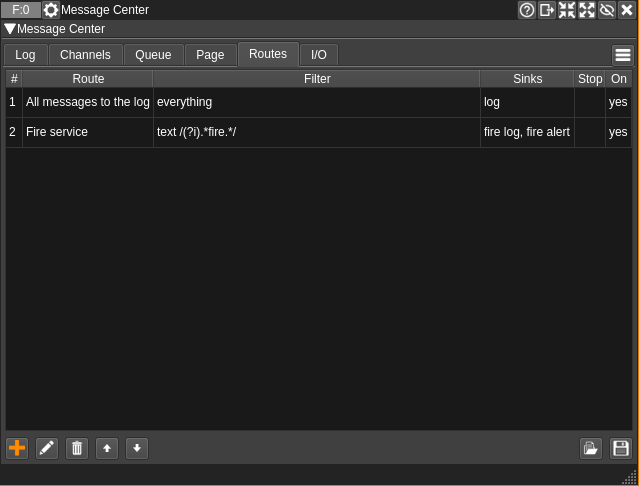
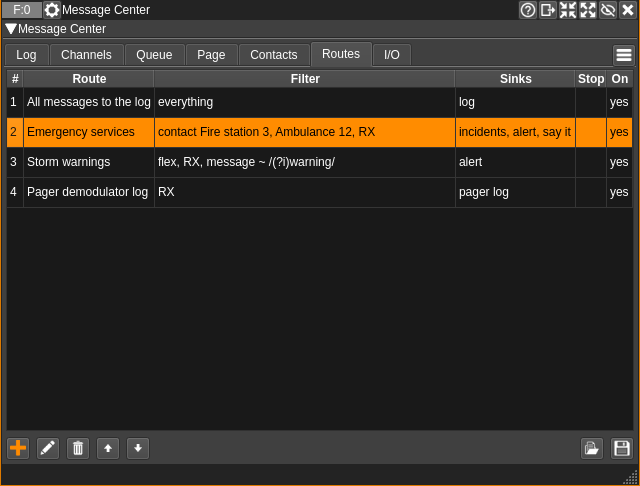
Readme screenshots: over the air on a USRP B210 loopback, with invented traffic
The demodulator and Message Center images showed traffic received off air; they are
replaced by pages of every protocol, speed and type sent by the Radio Paging modulator and
received over a cable. The Page tab with its contact, the contacts, the routes and the
sinks with the Pager CSV format are taken again.

diff --git a/plugins/feature/messagecenter/readme.md b/plugins/feature/messagecenter/readme.md
@@ -15,9 +15,9 @@ The channels publish their messages as message records on the "messages" pipe, a
 
 <h2>Interface</h2>
 
-![Message Center plugin GUI](../../../doc/img/MessageCenter_plugin.png)
+![Message Center plugin GUI: the messages received over the air from a Radio Paging modulator, POCSAG at 512, 1200 and 2400 baud (one inverted), FLEX 1600/2, 3200/4 and 6400/4 and GSC, with their contacts](../../../doc/img/MessageCenter_plugin.png)
 
-The window has a tab for each section: Log, Channels, Queue, Page, Routes and I/O. The button at the right of the tabs opens the options.
+The window has a tab for each section: Log, Channels, Queue, Page, Contacts, Routes and I/O. The button at the right of the tabs opens the options.
 
 <h3>Log</h3>
 
@@ -52,7 +52,7 @@ The pages to transmit, with the transmitter (its name), protocol, address, text,
 
 <h3>Page</h3>
 
-![Message Center page composer](../../../doc/img/MessageCenter_plugin_page.png)
+![Message Center page composer: a page to a contact, its destination filled in](../../../doc/img/MessageCenter_plugin_page.png)
 
 The composer of a page, the same as in the Radio Paging modulator: transmitter (its name), protocol, address, type, text and the fields of the protocol. Table opens the codepage table of the text. Post the page queues the page for the transmitter.
 
@@ -83,9 +83,11 @@ A page can go to a contact instead of a transmitter and an address (`contact` in
 
 Every message is checked against all the routes in their number order (#), not only the first. Each route whose filter selects the message sends it to the sinks of the route: the log, the transmit queue or the sinks of I/O. A route with Stop ends the check for the messages it selects, so the routes after it do not see them. The log is a sink as the others: a message no route sends to it is not logged. A new Message Center has one route, 1 "All messages to the log", without a filter. A sink takes only what a route sends to it.
 
-![Message Center routes: all the messages to the log, the messages of the fire service to a CSV file and highlighted](../../../doc/img/MessageCenter_plugin_routes.png)
+![Message Center routes: all the messages to the log; those of two contacts to a file, highlighted and said; FLEX warnings highlighted; every message received to a log of the Pager demodulator format](../../../doc/img/MessageCenter_plugin_routes.png)
 
-![A route](../../../doc/img/MessageCenter_plugin_route.png)
+![A route: the messages received of two contacts](../../../doc/img/MessageCenter_plugin_route.png)
+
+A filter on several contacts (set through the WebAPI) is one item of the contact list. Editing a route keeps what its dialog does not show of its filter.
 
 The tool tip of the table of the routes recalls how they work.
 
@@ -98,7 +100,7 @@ The filter of a route has the fields of the filter of the log, and the source of
 
 <h3>I/O</h3>
 
-![Message Center sinks and sources: the built in ones, a CSV file and a highlight](../../../doc/img/MessageCenter_plugin_io.png)
+![Message Center sinks and sources: the built in ones, a Pager CSV log, a JSON lines file, a highlight and speech](../../../doc/img/MessageCenter_plugin_io.png)
 
 The sources and sinks: where messages come from besides the channels (files read as they grow, UDP), and where the routes send them besides the log and the queue (files, UDP, commands, speech, highlight in the log, the Map). Each has a name and a type. The built in ones come first: the sinks log and queue, the sources channels and api. Double click to edit; a sink renamed is renamed in the routes too. The editor of a sink also chooses the routes that send to it, and can add a route that sends every message to it. The table of the sinks gives the records each took and refused and the routes that send to it (none: it takes nothing). Plus adds a sink or a source, bin removes the one selected. The errors of the sinks and sources are shown below them from the first one.
 

diff --git a/plugins/channelrx/demodradiopaging/readme.md b/plugins/channelrx/demodradiopaging/readme.md
@@ -92,7 +92,7 @@ The bit error rate (BER) is the bits the code corrected over the bits received, 
 
 The top and bottom bars of the channel window are described [here](../../../sdrgui/channel/readme.md)
 
-![Radio Paging Demodulator plugin GUI](../../../doc/img/RadioPagingDemod_plugin.png)
+![Radio Paging Demodulator plugin GUI: pages received over the air from the Radio Paging modulator (USRP B210, transmit cabled to receive), POCSAG at 1200, 512 and 2400 baud (inverted), FLEX 1600/2 with a group message](../../../doc/img/RadioPagingDemod_plugin.png)
 
 The window has a settings section and a section for the received messages. Each section can be rolled up.
 
